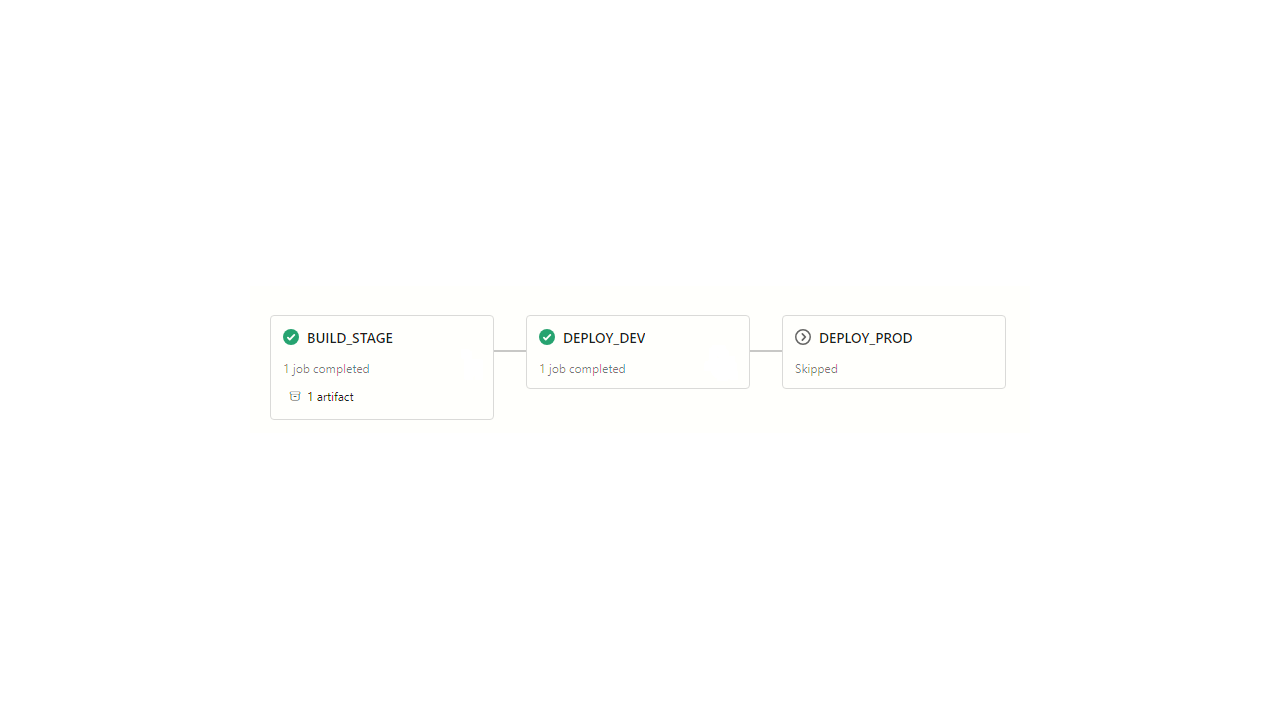
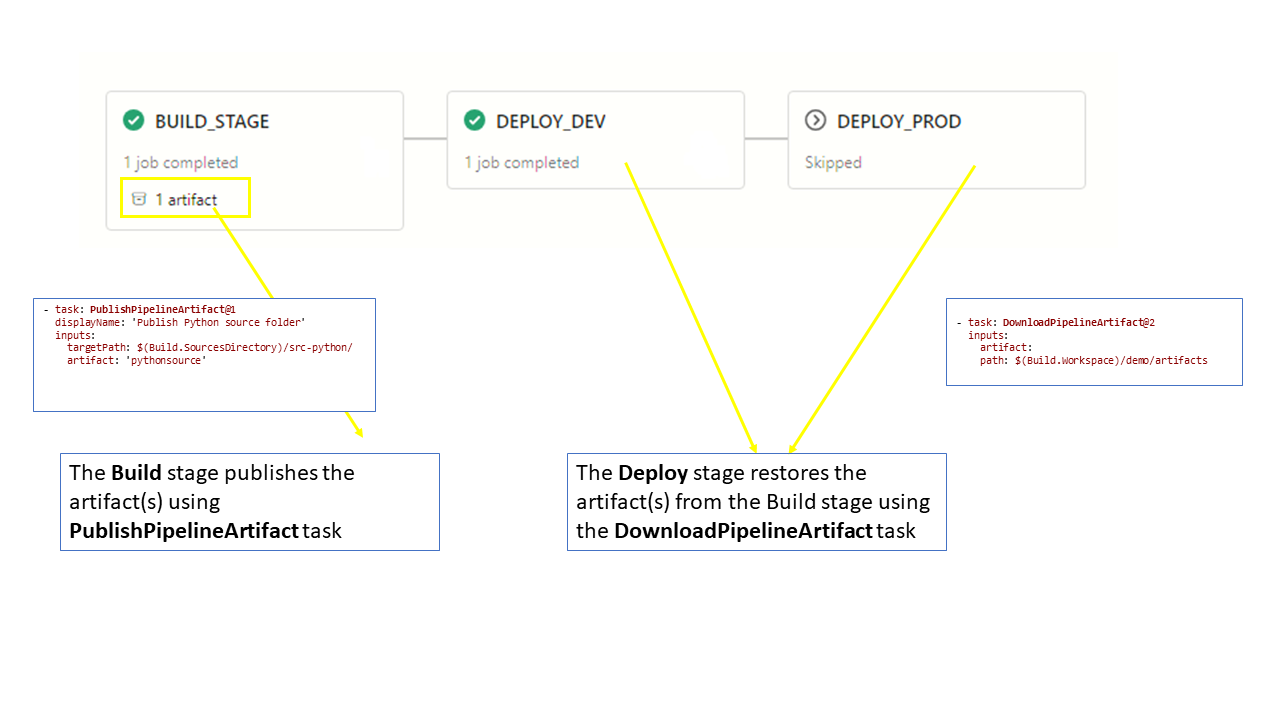
picture of how artifacts work, solution folder view

diff --git a/ci-cd-stages-demo/notes.md b/ci-cd-stages-demo/notes.md
@@ -1,5 +1,7 @@
 [[_TOC_]]
 
+# Single YAML file based Devops pipeline for Build and Deploy stages
+
 # Objective
 Azure Devops in 2023 has gained wide popularity in the developer community. Azure Devops is a complete suite of tools to manage your software development lifecyle.  The self-service CI/CD features of Azure Devops is a very powerful automation tool that should not be ignored. You could be deploying web apps/services to the Cloud or publishing desktop applications or an in house data science team which wants to deploy its Python files to a job server .   YAML based pipelines of Azure Devops is a powerful CI/CD orchestration tool. However, it would be an understatement to conclude that this is an easy tool. I have found that authoring YAML based Azure Devops CI/CD pipelines can be time consuming and hard to troubleshoot at times. The lesson that I have learnt - keep the CI/CD simple and linear!  What do I mean by linear? Build stage, followed by a Dev deployment and then an Uat deployment and finally ending in a Prod deployment.
 
@@ -314,10 +316,16 @@ Imagine a simple C# executable project. We want a Build stage that does the foll
 If the Build stage succeeds, then the published artifact(s) can be further processed in the subsequent Deployment stages.
 
 #### How do artifacts work in Azure Devops CI/CD?  (to be done)
+The following diagram emphasizes the importance of one central CI-CD YAML which orchestrates all the Stages. This solves the issue of Release stages having to be told which version of the resource to be picked.
+
+
 ![how-artifacts-work.png](docs/ppt-images/how-artifacts-work.png)
 
 #### Step-1-Add a C# executable
-We have created a simple **C# Console EXE** project under the **src** folder of this Git repo.
+We have created a simple **C# Console EXE** project under the **src-chsarp** folder of this Git repo.
+
+![csharp-solution-explorer.png
+](docs/images/csharp-solution-explorer.png)
 
 #### Step-2-Add a task to restore all referenced NUGET packages
 
@@ -344,7 +352,7 @@ This will run all the unit tests in the specified projects.
 
 ```
 #### Step-4-Add Publish task
-This will build the specified CSPROJ and produce the binaries in the specified output folder
+This will build the specified CSPROJ and produce the binaries in the specified output folder.
 
 ```yml
 - task: DotNetCoreCLI@2
@@ -359,7 +367,7 @@ This will build the specified CSPROJ and produce the binaries in the specified o
 
 ```
 #### Step-5-Create a ZIP of the DLLs
-The following snippet will create a ZIP of the output from the `dotnet publish` command
+The following snippet will create a ZIP of the output from the `dotnet publish` command. Notice that we are using the output folder location in the **dotnet publish** step as the target of the ZIP (**rootFolderOrFile** parameter)
 
 ```yml
 - task: ArchiveFiles@2
